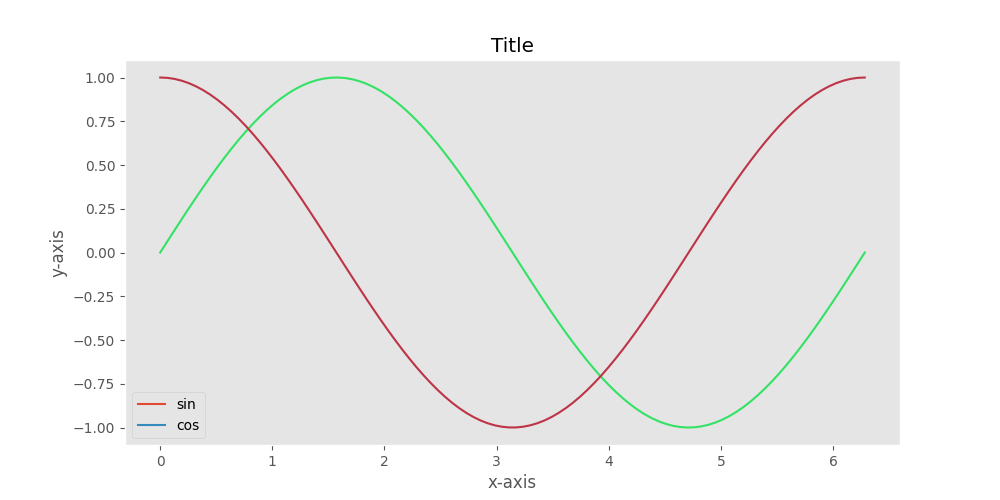
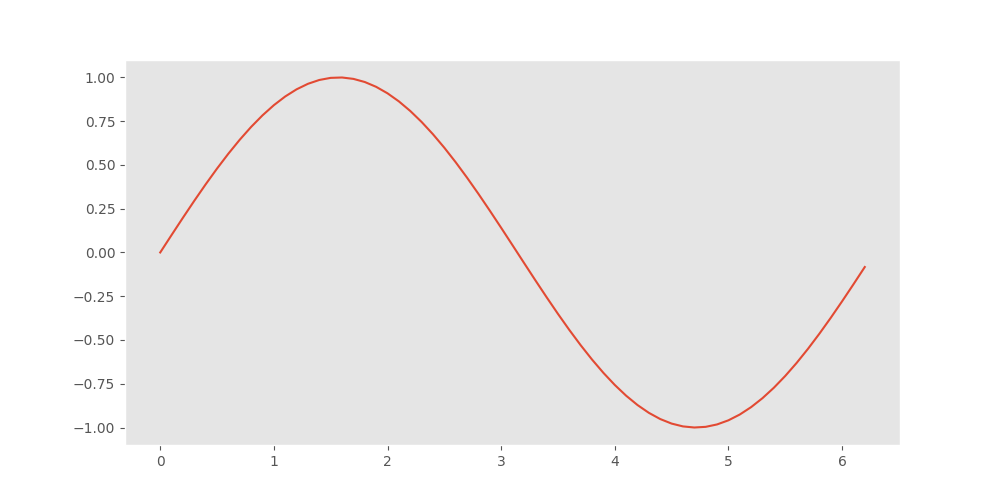
Ohne Video

diff --git a/figure_export.html b/figure_export.html
@@ -4,7 +4,7 @@
 
 </style>
 
-<div id="fig_el3477621869483733287335085152"></div>
+<div id="fig_el21922277846748416673735949"></div>
 <script>
 function mpld3_load_lib(url, callback){
   var s = document.createElement('script');
@@ -19,7 +19,7 @@ if(typeof(mpld3) !== "undefined" && mpld3._mpld3IsLoaded){
    // already loaded: just create the figure
    !function(mpld3){
        
-       mpld3.draw_figure("fig_el3477621869483733287335085152", {"width": 1000.0, "height": 500.0, "axes": [{"bbox": [0.125, 0.10999999999999999, 0.775, 0.77], "xlim": [-0.49500000000000005, 10.395], "ylim": [-1.099898100594381, 1.0995484460717855], "xdomain": [-0.49500000000000005, 10.395], "ydomain": [-1.099898100594381, 1.0995484460717855], "xscale": "linear", "yscale": "linear", "axes": [{"position": "bottom", "nticks": 8, "tickvalues": null, "tickformat_formatter": "", "tickformat": null, "scale": "linear", "fontsize": 10.0, "grid": {"gridOn": true, "color": "#FFFFFF", "dasharray": "none", "alpha": 1.0}, "visible": true}, {"position": "left", "nticks": 11, "tickvalues": null, "tickformat_formatter": "", "tickformat": null, "scale": "linear", "fontsize": 10.0, "grid": {"gridOn": true, "color": "#FFFFFF", "dasharray": "none", "alpha": 1.0}, "visible": true}], "axesbg": "#E5E5E5", "axesbgalpha": null, "zoomable": true, "id": "el347762186952697552", "lines": [{"data": "data01", "xindex": 0, "yindex": 1, "coordinates": "data", "id": "el347762186952614048", "color": "#334CE2", "linewidth": 1.5, "dasharray": "1.5,2.4749999999999996", "alpha": 1, "zorder": 2, "drawstyle": "default"}], "paths": [], "markers": [], "texts": [{"text": "x-axis", "position": [0.5, -0.07604617604617606], "coordinates": "axes", "h_anchor": "middle", "v_baseline": "hanging", "rotation": -0.0, "fontsize": 12.0, "color": "#555555", "alpha": 1, "zorder": 3, "id": "el347762186952498864"}, {"text": "y-axis", "position": [-0.07439068100358423, 0.5], "coordinates": "axes", "h_anchor": "middle", "v_baseline": "auto", "rotation": -90.0, "fontsize": 12.0, "color": "#555555", "alpha": 1, "zorder": 3, "id": "el347762186952386256"}, {"text": "Title", "position": [0.5, 1.0216450216450217], "coordinates": "axes", "h_anchor": "middle", "v_baseline": "auto", "rotation": -0.0, "fontsize": 14.399999999999999, "color": "#000000", "alpha": 1, "zorder": 3, "id": "el347762186948904512"}], "collections": [], "images": [], "sharex": [], "sharey": []}], "data": {"data01": [[0.0, 0.0], [0.1, 0.09983341664682815], [0.2, 0.19866933079506122], [0.30000000000000004, 0.2955202066613396], [0.4, 0.3894183423086505], [0.5, 0.479425538604203], [0.6000000000000001, 0.5646424733950355], [0.7000000000000001, 0.6442176872376911], [0.8, 0.7173560908995228], [0.9, 0.7833269096274834], [1.0, 0.8414709848078965], [1.1, 0.8912073600614354], [1.2000000000000002, 0.9320390859672264], [1.3, 0.963558185417193], [1.4000000000000001, 0.9854497299884603], [1.5, 0.9974949866040544], [1.6, 0.9995736030415051], [1.7000000000000002, 0.9916648104524686], [1.8, 0.9738476308781951], [1.9000000000000001, 0.9463000876874145], [2.0, 0.9092974268256817], [2.1, 0.8632093666488737], [2.2, 0.8084964038195901], [2.3000000000000003, 0.74570521217672], [2.4000000000000004, 0.6754631805511506], [2.5, 0.5984721441039564], [2.6, 0.5155013718214642], [2.7, 0.4273798802338298], [2.8000000000000003, 0.33498815015590466], [2.9000000000000004, 0.23924932921398198], [3.0, 0.1411200080598672], [3.1, 0.04158066243329049], [3.2, -0.058374143427580086], [3.3000000000000003, -0.15774569414324865], [3.4000000000000004, -0.25554110202683167], [3.5, -0.35078322768961984], [3.6, -0.44252044329485246], [3.7, -0.5298361409084934], [3.8000000000000003, -0.6118578909427193], [3.9000000000000004, -0.6877661591839741], [4.0, -0.7568024953079282], [4.1000000000000005, -0.8182771110644108], [4.2, -0.8715757724135882], [4.3, -0.9161659367494549], [4.4, -0.9516020738895161], [4.5, -0.977530117665097], [4.6000000000000005, -0.9936910036334645], [4.7, -0.9999232575641008], [4.800000000000001, -0.9961646088358406], [4.9, -0.9824526126243325], [5.0, -0.9589242746631385], [5.1000000000000005, -0.9258146823277321], [5.2, -0.8834546557201531], [5.300000000000001, -0.8322674422239008], [5.4, -0.7727644875559871], [5.5, -0.7055403255703919], [5.6000000000000005, -0.6312666378723208], [5.7, -0.5506855425976376], [5.800000000000001, -0.4646021794137566], [5.9, -0.373876664830236], [6.0, -0.27941549819892586], [6.1000000000000005, -0.18216250427209502], [6.2, -0.0830894028174964], [6.300000000000001, 0.0168139004843506], [6.4, 0.11654920485049364], [6.5, 0.21511998808781552], [6.6000000000000005, 0.3115413635133787], [6.7, 0.4048499206165983], [6.800000000000001, 0.49411335113860894], [6.9, 0.5784397643882001], [7.0, 0.6569865987187891], [7.1000000000000005, 0.7289690401258765], [7.2, 0.7936678638491531], [7.300000000000001, 0.8504366206285648], [7.4, 0.8987080958116269], [7.5, 0.9379999767747389], [7.6000000000000005, 0.9679196720314865], [7.7, 0.9881682338770004], [7.800000000000001, 0.998543345374605], [7.9, 0.998941341839772], [8.0, 0.9893582466233818], [8.1, 0.9698898108450863], [8.200000000000001, 0.9407305566797726], [8.3, 0.9021718337562933], [8.4, 0.8545989080882805], [8.5, 0.7984871126234903], [8.6, 0.7343970978741133], [8.700000000000001, 0.662969230082182], [8.8, 0.5849171928917617], [8.9, 0.5010208564578846], [9.0, 0.4121184852417566], [9.1, 0.3190983623493521], [9.200000000000001, 0.22288991410024592], [9.3, 0.1244544235070617], [9.4, 0.024775425453357765], [9.5, -0.0751511204618093], [9.600000000000001, -0.1743267812229814], [9.700000000000001, -0.2717606264109442], [9.8, -0.3664791292519284], [9.9, -0.45753589377532133]]}, "id": "el347762186948373328", "plugins": [{"type": "reset"}, {"type": "zoom", "button": true, "enabled": false}, {"type": "boxzoom", "button": true, "enabled": false}]});
+       mpld3.draw_figure("fig_el21922277846748416673735949", {"width": 1000.0, "height": 500.0, "axes": [{"bbox": [0.125, 0.10999999999999999, 0.775, 0.77], "xlim": [-0.31000000000000005, 6.51], "ylim": [-1.099898100594381, 1.0995484460717855], "xdomain": [-0.31000000000000005, 6.51], "ydomain": [-1.099898100594381, 1.0995484460717855], "xscale": "linear", "yscale": "linear", "axes": [{"position": "bottom", "nticks": 9, "tickvalues": null, "tickformat_formatter": "", "tickformat": null, "scale": "linear", "fontsize": 10.0, "grid": {"gridOn": false}, "visible": true}, {"position": "left", "nticks": 11, "tickvalues": null, "tickformat_formatter": "", "tickformat": null, "scale": "linear", "fontsize": 10.0, "grid": {"gridOn": false}, "visible": true}], "axesbg": "#E5E5E5", "axesbgalpha": null, "zoomable": true, "id": "el21922277435743968", "lines": [{"data": "data01", "xindex": 0, "yindex": 1, "coordinates": "data", "id": "el21922277851234256", "color": "#E24A33", "linewidth": 1.5, "dasharray": "none", "alpha": 1, "zorder": 2, "drawstyle": "default"}], "paths": [], "markers": [], "texts": [], "collections": [], "images": [], "sharex": [], "sharey": []}], "data": {"data01": [[0.0, 0.0], [0.1, 0.09983341664682815], [0.2, 0.19866933079506122], [0.30000000000000004, 0.2955202066613396], [0.4, 0.3894183423086505], [0.5, 0.479425538604203], [0.6000000000000001, 0.5646424733950355], [0.7000000000000001, 0.6442176872376911], [0.8, 0.7173560908995228], [0.9, 0.7833269096274834], [1.0, 0.8414709848078965], [1.1, 0.8912073600614354], [1.2000000000000002, 0.9320390859672264], [1.3, 0.963558185417193], [1.4000000000000001, 0.9854497299884603], [1.5, 0.9974949866040544], [1.6, 0.9995736030415051], [1.7000000000000002, 0.9916648104524686], [1.8, 0.9738476308781951], [1.9000000000000001, 0.9463000876874145], [2.0, 0.9092974268256817], [2.1, 0.8632093666488737], [2.2, 0.8084964038195901], [2.3000000000000003, 0.74570521217672], [2.4000000000000004, 0.6754631805511506], [2.5, 0.5984721441039564], [2.6, 0.5155013718214642], [2.7, 0.4273798802338298], [2.8000000000000003, 0.33498815015590466], [2.9000000000000004, 0.23924932921398198], [3.0, 0.1411200080598672], [3.1, 0.04158066243329049], [3.2, -0.058374143427580086], [3.3000000000000003, -0.15774569414324865], [3.4000000000000004, -0.25554110202683167], [3.5, -0.35078322768961984], [3.6, -0.44252044329485246], [3.7, -0.5298361409084934], [3.8000000000000003, -0.6118578909427193], [3.9000000000000004, -0.6877661591839741], [4.0, -0.7568024953079282], [4.1000000000000005, -0.8182771110644108], [4.2, -0.8715757724135882], [4.3, -0.9161659367494549], [4.4, -0.9516020738895161], [4.5, -0.977530117665097], [4.6000000000000005, -0.9936910036334645], [4.7, -0.9999232575641008], [4.800000000000001, -0.9961646088358406], [4.9, -0.9824526126243325], [5.0, -0.9589242746631385], [5.1000000000000005, -0.9258146823277321], [5.2, -0.8834546557201531], [5.300000000000001, -0.8322674422239008], [5.4, -0.7727644875559871], [5.5, -0.7055403255703919], [5.6000000000000005, -0.6312666378723208], [5.7, -0.5506855425976376], [5.800000000000001, -0.4646021794137566], [5.9, -0.373876664830236], [6.0, -0.27941549819892586], [6.1000000000000005, -0.18216250427209502], [6.2, -0.0830894028174964]]}, "id": "el21922277846748416", "plugins": [{"type": "reset"}, {"type": "zoom", "button": true, "enabled": false}, {"type": "boxzoom", "button": true, "enabled": false}]});
    }(mpld3);
 }else if(typeof define === "function" && define.amd){
    // require.js is available: use it to load d3/mpld3
@@ -28,7 +28,7 @@ if(typeof(mpld3) !== "undefined" && mpld3._mpld3IsLoaded){
       window.d3 = d3;
       mpld3_load_lib("https://mpld3.github.io/js/mpld3.v0.5.7.js", function(){
          
-         mpld3.draw_figure("fig_el3477621869483733287335085152", {"width": 1000.0, "height": 500.0, "axes": [{"bbox": [0.125, 0.10999999999999999, 0.775, 0.77], "xlim": [-0.49500000000000005, 10.395], "ylim": [-1.099898100594381, 1.0995484460717855], "xdomain": [-0.49500000000000005, 10.395], "ydomain": [-1.099898100594381, 1.0995484460717855], "xscale": "linear", "yscale": "linear", "axes": [{"position": "bottom", "nticks": 8, "tickvalues": null, "tickformat_formatter": "", "tickformat": null, "scale": "linear", "fontsize": 10.0, "grid": {"gridOn": true, "color": "#FFFFFF", "dasharray": "none", "alpha": 1.0}, "visible": true}, {"position": "left", "nticks": 11, "tickvalues": null, "tickformat_formatter": "", "tickformat": null, "scale": "linear", "fontsize": 10.0, "grid": {"gridOn": true, "color": "#FFFFFF", "dasharray": "none", "alpha": 1.0}, "visible": true}], "axesbg": "#E5E5E5", "axesbgalpha": null, "zoomable": true, "id": "el347762186952697552", "lines": [{"data": "data01", "xindex": 0, "yindex": 1, "coordinates": "data", "id": "el347762186952614048", "color": "#334CE2", "linewidth": 1.5, "dasharray": "1.5,2.4749999999999996", "alpha": 1, "zorder": 2, "drawstyle": "default"}], "paths": [], "markers": [], "texts": [{"text": "x-axis", "position": [0.5, -0.07604617604617606], "coordinates": "axes", "h_anchor": "middle", "v_baseline": "hanging", "rotation": -0.0, "fontsize": 12.0, "color": "#555555", "alpha": 1, "zorder": 3, "id": "el347762186952498864"}, {"text": "y-axis", "position": [-0.07439068100358423, 0.5], "coordinates": "axes", "h_anchor": "middle", "v_baseline": "auto", "rotation": -90.0, "fontsize": 12.0, "color": "#555555", "alpha": 1, "zorder": 3, "id": "el347762186952386256"}, {"text": "Title", "position": [0.5, 1.0216450216450217], "coordinates": "axes", "h_anchor": "middle", "v_baseline": "auto", "rotation": -0.0, "fontsize": 14.399999999999999, "color": "#000000", "alpha": 1, "zorder": 3, "id": "el347762186948904512"}], "collections": [], "images": [], "sharex": [], "sharey": []}], "data": {"data01": [[0.0, 0.0], [0.1, 0.09983341664682815], [0.2, 0.19866933079506122], [0.30000000000000004, 0.2955202066613396], [0.4, 0.3894183423086505], [0.5, 0.479425538604203], [0.6000000000000001, 0.5646424733950355], [0.7000000000000001, 0.6442176872376911], [0.8, 0.7173560908995228], [0.9, 0.7833269096274834], [1.0, 0.8414709848078965], [1.1, 0.8912073600614354], [1.2000000000000002, 0.9320390859672264], [1.3, 0.963558185417193], [1.4000000000000001, 0.9854497299884603], [1.5, 0.9974949866040544], [1.6, 0.9995736030415051], [1.7000000000000002, 0.9916648104524686], [1.8, 0.9738476308781951], [1.9000000000000001, 0.9463000876874145], [2.0, 0.9092974268256817], [2.1, 0.8632093666488737], [2.2, 0.8084964038195901], [2.3000000000000003, 0.74570521217672], [2.4000000000000004, 0.6754631805511506], [2.5, 0.5984721441039564], [2.6, 0.5155013718214642], [2.7, 0.4273798802338298], [2.8000000000000003, 0.33498815015590466], [2.9000000000000004, 0.23924932921398198], [3.0, 0.1411200080598672], [3.1, 0.04158066243329049], [3.2, -0.058374143427580086], [3.3000000000000003, -0.15774569414324865], [3.4000000000000004, -0.25554110202683167], [3.5, -0.35078322768961984], [3.6, -0.44252044329485246], [3.7, -0.5298361409084934], [3.8000000000000003, -0.6118578909427193], [3.9000000000000004, -0.6877661591839741], [4.0, -0.7568024953079282], [4.1000000000000005, -0.8182771110644108], [4.2, -0.8715757724135882], [4.3, -0.9161659367494549], [4.4, -0.9516020738895161], [4.5, -0.977530117665097], [4.6000000000000005, -0.9936910036334645], [4.7, -0.9999232575641008], [4.800000000000001, -0.9961646088358406], [4.9, -0.9824526126243325], [5.0, -0.9589242746631385], [5.1000000000000005, -0.9258146823277321], [5.2, -0.8834546557201531], [5.300000000000001, -0.8322674422239008], [5.4, -0.7727644875559871], [5.5, -0.7055403255703919], [5.6000000000000005, -0.6312666378723208], [5.7, -0.5506855425976376], [5.800000000000001, -0.4646021794137566], [5.9, -0.373876664830236], [6.0, -0.27941549819892586], [6.1000000000000005, -0.18216250427209502], [6.2, -0.0830894028174964], [6.300000000000001, 0.0168139004843506], [6.4, 0.11654920485049364], [6.5, 0.21511998808781552], [6.6000000000000005, 0.3115413635133787], [6.7, 0.4048499206165983], [6.800000000000001, 0.49411335113860894], [6.9, 0.5784397643882001], [7.0, 0.6569865987187891], [7.1000000000000005, 0.7289690401258765], [7.2, 0.7936678638491531], [7.300000000000001, 0.8504366206285648], [7.4, 0.8987080958116269], [7.5, 0.9379999767747389], [7.6000000000000005, 0.9679196720314865], [7.7, 0.9881682338770004], [7.800000000000001, 0.998543345374605], [7.9, 0.998941341839772], [8.0, 0.9893582466233818], [8.1, 0.9698898108450863], [8.200000000000001, 0.9407305566797726], [8.3, 0.9021718337562933], [8.4, 0.8545989080882805], [8.5, 0.7984871126234903], [8.6, 0.7343970978741133], [8.700000000000001, 0.662969230082182], [8.8, 0.5849171928917617], [8.9, 0.5010208564578846], [9.0, 0.4121184852417566], [9.1, 0.3190983623493521], [9.200000000000001, 0.22288991410024592], [9.3, 0.1244544235070617], [9.4, 0.024775425453357765], [9.5, -0.0751511204618093], [9.600000000000001, -0.1743267812229814], [9.700000000000001, -0.2717606264109442], [9.8, -0.3664791292519284], [9.9, -0.45753589377532133]]}, "id": "el347762186948373328", "plugins": [{"type": "reset"}, {"type": "zoom", "button": true, "enabled": false}, {"type": "boxzoom", "button": true, "enabled": false}]});
+         mpld3.draw_figure("fig_el21922277846748416673735949", {"width": 1000.0, "height": 500.0, "axes": [{"bbox": [0.125, 0.10999999999999999, 0.775, 0.77], "xlim": [-0.31000000000000005, 6.51], "ylim": [-1.099898100594381, 1.0995484460717855], "xdomain": [-0.31000000000000005, 6.51], "ydomain": [-1.099898100594381, 1.0995484460717855], "xscale": "linear", "yscale": "linear", "axes": [{"position": "bottom", "nticks": 9, "tickvalues": null, "tickformat_formatter": "", "tickformat": null, "scale": "linear", "fontsize": 10.0, "grid": {"gridOn": false}, "visible": true}, {"position": "left", "nticks": 11, "tickvalues": null, "tickformat_formatter": "", "tickformat": null, "scale": "linear", "fontsize": 10.0, "grid": {"gridOn": false}, "visible": true}], "axesbg": "#E5E5E5", "axesbgalpha": null, "zoomable": true, "id": "el21922277435743968", "lines": [{"data": "data01", "xindex": 0, "yindex": 1, "coordinates": "data", "id": "el21922277851234256", "color": "#E24A33", "linewidth": 1.5, "dasharray": "none", "alpha": 1, "zorder": 2, "drawstyle": "default"}], "paths": [], "markers": [], "texts": [], "collections": [], "images": [], "sharex": [], "sharey": []}], "data": {"data01": [[0.0, 0.0], [0.1, 0.09983341664682815], [0.2, 0.19866933079506122], [0.30000000000000004, 0.2955202066613396], [0.4, 0.3894183423086505], [0.5, 0.479425538604203], [0.6000000000000001, 0.5646424733950355], [0.7000000000000001, 0.6442176872376911], [0.8, 0.7173560908995228], [0.9, 0.7833269096274834], [1.0, 0.8414709848078965], [1.1, 0.8912073600614354], [1.2000000000000002, 0.9320390859672264], [1.3, 0.963558185417193], [1.4000000000000001, 0.9854497299884603], [1.5, 0.9974949866040544], [1.6, 0.9995736030415051], [1.7000000000000002, 0.9916648104524686], [1.8, 0.9738476308781951], [1.9000000000000001, 0.9463000876874145], [2.0, 0.9092974268256817], [2.1, 0.8632093666488737], [2.2, 0.8084964038195901], [2.3000000000000003, 0.74570521217672], [2.4000000000000004, 0.6754631805511506], [2.5, 0.5984721441039564], [2.6, 0.5155013718214642], [2.7, 0.4273798802338298], [2.8000000000000003, 0.33498815015590466], [2.9000000000000004, 0.23924932921398198], [3.0, 0.1411200080598672], [3.1, 0.04158066243329049], [3.2, -0.058374143427580086], [3.3000000000000003, -0.15774569414324865], [3.4000000000000004, -0.25554110202683167], [3.5, -0.35078322768961984], [3.6, -0.44252044329485246], [3.7, -0.5298361409084934], [3.8000000000000003, -0.6118578909427193], [3.9000000000000004, -0.6877661591839741], [4.0, -0.7568024953079282], [4.1000000000000005, -0.8182771110644108], [4.2, -0.8715757724135882], [4.3, -0.9161659367494549], [4.4, -0.9516020738895161], [4.5, -0.977530117665097], [4.6000000000000005, -0.9936910036334645], [4.7, -0.9999232575641008], [4.800000000000001, -0.9961646088358406], [4.9, -0.9824526126243325], [5.0, -0.9589242746631385], [5.1000000000000005, -0.9258146823277321], [5.2, -0.8834546557201531], [5.300000000000001, -0.8322674422239008], [5.4, -0.7727644875559871], [5.5, -0.7055403255703919], [5.6000000000000005, -0.6312666378723208], [5.7, -0.5506855425976376], [5.800000000000001, -0.4646021794137566], [5.9, -0.373876664830236], [6.0, -0.27941549819892586], [6.1000000000000005, -0.18216250427209502], [6.2, -0.0830894028174964]]}, "id": "el21922277846748416", "plugins": [{"type": "reset"}, {"type": "zoom", "button": true, "enabled": false}, {"type": "boxzoom", "button": true, "enabled": false}]});
       });
     });
 }else{
@@ -36,7 +36,7 @@ if(typeof(mpld3) !== "undefined" && mpld3._mpld3IsLoaded){
     mpld3_load_lib("https://d3js.org/d3.v5.js", function(){
          mpld3_load_lib("https://mpld3.github.io/js/mpld3.v0.5.7.js", function(){
                  
-                 mpld3.draw_figure("fig_el3477621869483733287335085152", {"width": 1000.0, "height": 500.0, "axes": [{"bbox": [0.125, 0.10999999999999999, 0.775, 0.77], "xlim": [-0.49500000000000005, 10.395], "ylim": [-1.099898100594381, 1.0995484460717855], "xdomain": [-0.49500000000000005, 10.395], "ydomain": [-1.099898100594381, 1.0995484460717855], "xscale": "linear", "yscale": "linear", "axes": [{"position": "bottom", "nticks": 8, "tickvalues": null, "tickformat_formatter": "", "tickformat": null, "scale": "linear", "fontsize": 10.0, "grid": {"gridOn": true, "color": "#FFFFFF", "dasharray": "none", "alpha": 1.0}, "visible": true}, {"position": "left", "nticks": 11, "tickvalues": null, "tickformat_formatter": "", "tickformat": null, "scale": "linear", "fontsize": 10.0, "grid": {"gridOn": true, "color": "#FFFFFF", "dasharray": "none", "alpha": 1.0}, "visible": true}], "axesbg": "#E5E5E5", "axesbgalpha": null, "zoomable": true, "id": "el347762186952697552", "lines": [{"data": "data01", "xindex": 0, "yindex": 1, "coordinates": "data", "id": "el347762186952614048", "color": "#334CE2", "linewidth": 1.5, "dasharray": "1.5,2.4749999999999996", "alpha": 1, "zorder": 2, "drawstyle": "default"}], "paths": [], "markers": [], "texts": [{"text": "x-axis", "position": [0.5, -0.07604617604617606], "coordinates": "axes", "h_anchor": "middle", "v_baseline": "hanging", "rotation": -0.0, "fontsize": 12.0, "color": "#555555", "alpha": 1, "zorder": 3, "id": "el347762186952498864"}, {"text": "y-axis", "position": [-0.07439068100358423, 0.5], "coordinates": "axes", "h_anchor": "middle", "v_baseline": "auto", "rotation": -90.0, "fontsize": 12.0, "color": "#555555", "alpha": 1, "zorder": 3, "id": "el347762186952386256"}, {"text": "Title", "position": [0.5, 1.0216450216450217], "coordinates": "axes", "h_anchor": "middle", "v_baseline": "auto", "rotation": -0.0, "fontsize": 14.399999999999999, "color": "#000000", "alpha": 1, "zorder": 3, "id": "el347762186948904512"}], "collections": [], "images": [], "sharex": [], "sharey": []}], "data": {"data01": [[0.0, 0.0], [0.1, 0.09983341664682815], [0.2, 0.19866933079506122], [0.30000000000000004, 0.2955202066613396], [0.4, 0.3894183423086505], [0.5, 0.479425538604203], [0.6000000000000001, 0.5646424733950355], [0.7000000000000001, 0.6442176872376911], [0.8, 0.7173560908995228], [0.9, 0.7833269096274834], [1.0, 0.8414709848078965], [1.1, 0.8912073600614354], [1.2000000000000002, 0.9320390859672264], [1.3, 0.963558185417193], [1.4000000000000001, 0.9854497299884603], [1.5, 0.9974949866040544], [1.6, 0.9995736030415051], [1.7000000000000002, 0.9916648104524686], [1.8, 0.9738476308781951], [1.9000000000000001, 0.9463000876874145], [2.0, 0.9092974268256817], [2.1, 0.8632093666488737], [2.2, 0.8084964038195901], [2.3000000000000003, 0.74570521217672], [2.4000000000000004, 0.6754631805511506], [2.5, 0.5984721441039564], [2.6, 0.5155013718214642], [2.7, 0.4273798802338298], [2.8000000000000003, 0.33498815015590466], [2.9000000000000004, 0.23924932921398198], [3.0, 0.1411200080598672], [3.1, 0.04158066243329049], [3.2, -0.058374143427580086], [3.3000000000000003, -0.15774569414324865], [3.4000000000000004, -0.25554110202683167], [3.5, -0.35078322768961984], [3.6, -0.44252044329485246], [3.7, -0.5298361409084934], [3.8000000000000003, -0.6118578909427193], [3.9000000000000004, -0.6877661591839741], [4.0, -0.7568024953079282], [4.1000000000000005, -0.8182771110644108], [4.2, -0.8715757724135882], [4.3, -0.9161659367494549], [4.4, -0.9516020738895161], [4.5, -0.977530117665097], [4.6000000000000005, -0.9936910036334645], [4.7, -0.9999232575641008], [4.800000000000001, -0.9961646088358406], [4.9, -0.9824526126243325], [5.0, -0.9589242746631385], [5.1000000000000005, -0.9258146823277321], [5.2, -0.8834546557201531], [5.300000000000001, -0.8322674422239008], [5.4, -0.7727644875559871], [5.5, -0.7055403255703919], [5.6000000000000005, -0.6312666378723208], [5.7, -0.5506855425976376], [5.800000000000001, -0.4646021794137566], [5.9, -0.373876664830236], [6.0, -0.27941549819892586], [6.1000000000000005, -0.18216250427209502], [6.2, -0.0830894028174964], [6.300000000000001, 0.0168139004843506], [6.4, 0.11654920485049364], [6.5, 0.21511998808781552], [6.6000000000000005, 0.3115413635133787], [6.7, 0.4048499206165983], [6.800000000000001, 0.49411335113860894], [6.9, 0.5784397643882001], [7.0, 0.6569865987187891], [7.1000000000000005, 0.7289690401258765], [7.2, 0.7936678638491531], [7.300000000000001, 0.8504366206285648], [7.4, 0.8987080958116269], [7.5, 0.9379999767747389], [7.6000000000000005, 0.9679196720314865], [7.7, 0.9881682338770004], [7.800000000000001, 0.998543345374605], [7.9, 0.998941341839772], [8.0, 0.9893582466233818], [8.1, 0.9698898108450863], [8.200000000000001, 0.9407305566797726], [8.3, 0.9021718337562933], [8.4, 0.8545989080882805], [8.5, 0.7984871126234903], [8.6, 0.7343970978741133], [8.700000000000001, 0.662969230082182], [8.8, 0.5849171928917617], [8.9, 0.5010208564578846], [9.0, 0.4121184852417566], [9.1, 0.3190983623493521], [9.200000000000001, 0.22288991410024592], [9.3, 0.1244544235070617], [9.4, 0.024775425453357765], [9.5, -0.0751511204618093], [9.600000000000001, -0.1743267812229814], [9.700000000000001, -0.2717606264109442], [9.8, -0.3664791292519284], [9.9, -0.45753589377532133]]}, "id": "el347762186948373328", "plugins": [{"type": "reset"}, {"type": "zoom", "button": true, "enabled": false}, {"type": "boxzoom", "button": true, "enabled": false}]});
+                 mpld3.draw_figure("fig_el21922277846748416673735949", {"width": 1000.0, "height": 500.0, "axes": [{"bbox": [0.125, 0.10999999999999999, 0.775, 0.77], "xlim": [-0.31000000000000005, 6.51], "ylim": [-1.099898100594381, 1.0995484460717855], "xdomain": [-0.31000000000000005, 6.51], "ydomain": [-1.099898100594381, 1.0995484460717855], "xscale": "linear", "yscale": "linear", "axes": [{"position": "bottom", "nticks": 9, "tickvalues": null, "tickformat_formatter": "", "tickformat": null, "scale": "linear", "fontsize": 10.0, "grid": {"gridOn": false}, "visible": true}, {"position": "left", "nticks": 11, "tickvalues": null, "tickformat_formatter": "", "tickformat": null, "scale": "linear", "fontsize": 10.0, "grid": {"gridOn": false}, "visible": true}], "axesbg": "#E5E5E5", "axesbgalpha": null, "zoomable": true, "id": "el21922277435743968", "lines": [{"data": "data01", "xindex": 0, "yindex": 1, "coordinates": "data", "id": "el21922277851234256", "color": "#E24A33", "linewidth": 1.5, "dasharray": "none", "alpha": 1, "zorder": 2, "drawstyle": "default"}], "paths": [], "markers": [], "texts": [], "collections": [], "images": [], "sharex": [], "sharey": []}], "data": {"data01": [[0.0, 0.0], [0.1, 0.09983341664682815], [0.2, 0.19866933079506122], [0.30000000000000004, 0.2955202066613396], [0.4, 0.3894183423086505], [0.5, 0.479425538604203], [0.6000000000000001, 0.5646424733950355], [0.7000000000000001, 0.6442176872376911], [0.8, 0.7173560908995228], [0.9, 0.7833269096274834], [1.0, 0.8414709848078965], [1.1, 0.8912073600614354], [1.2000000000000002, 0.9320390859672264], [1.3, 0.963558185417193], [1.4000000000000001, 0.9854497299884603], [1.5, 0.9974949866040544], [1.6, 0.9995736030415051], [1.7000000000000002, 0.9916648104524686], [1.8, 0.9738476308781951], [1.9000000000000001, 0.9463000876874145], [2.0, 0.9092974268256817], [2.1, 0.8632093666488737], [2.2, 0.8084964038195901], [2.3000000000000003, 0.74570521217672], [2.4000000000000004, 0.6754631805511506], [2.5, 0.5984721441039564], [2.6, 0.5155013718214642], [2.7, 0.4273798802338298], [2.8000000000000003, 0.33498815015590466], [2.9000000000000004, 0.23924932921398198], [3.0, 0.1411200080598672], [3.1, 0.04158066243329049], [3.2, -0.058374143427580086], [3.3000000000000003, -0.15774569414324865], [3.4000000000000004, -0.25554110202683167], [3.5, -0.35078322768961984], [3.6, -0.44252044329485246], [3.7, -0.5298361409084934], [3.8000000000000003, -0.6118578909427193], [3.9000000000000004, -0.6877661591839741], [4.0, -0.7568024953079282], [4.1000000000000005, -0.8182771110644108], [4.2, -0.8715757724135882], [4.3, -0.9161659367494549], [4.4, -0.9516020738895161], [4.5, -0.977530117665097], [4.6000000000000005, -0.9936910036334645], [4.7, -0.9999232575641008], [4.800000000000001, -0.9961646088358406], [4.9, -0.9824526126243325], [5.0, -0.9589242746631385], [5.1000000000000005, -0.9258146823277321], [5.2, -0.8834546557201531], [5.300000000000001, -0.8322674422239008], [5.4, -0.7727644875559871], [5.5, -0.7055403255703919], [5.6000000000000005, -0.6312666378723208], [5.7, -0.5506855425976376], [5.800000000000001, -0.4646021794137566], [5.9, -0.373876664830236], [6.0, -0.27941549819892586], [6.1000000000000005, -0.18216250427209502], [6.2, -0.0830894028174964]]}, "id": "el21922277846748416", "plugins": [{"type": "reset"}, {"type": "zoom", "button": true, "enabled": false}, {"type": "boxzoom", "button": true, "enabled": false}]});
             })
          });
 }

diff --git a/main.py b/main.py
@@ -356,11 +356,11 @@ def create_figure():
 with col1:
     #st.write(st.session_state)
     st.header('Create Charts with Commands in Natural Language')
-    demo_video = st.expander(label='Tutorial Video')
-    with demo_video:
-        video_file = open('NLP2Chart.mp4', 'rb')
-        video_bytes = video_file.read()
-        st.video(video_bytes)
+    #demo_video = st.expander(label='Tutorial Video')
+    #with demo_video:
+        #video_file = open('NLP2Chart.mp4', 'rb')
+        #video_bytes = video_file.read()
+        #st.video(video_bytes)
     st.text_area("Advise the system", key="comand_input", on_change=getGPT3,
         help="Examples: \n Plot a sinus function from -4 pi to 4 pi; \n Make an array of 400 random numbers and plot a horizontal histogram; \n plot sum of total_cases grouped by location as bar chart (COVID19 Data)")
     fig = create_figure()
@@ -372,12 +372,11 @@ set_widgets()
 
 st.sidebar.markdown('### Export ###')
 
-if st.sidebar.button('Save PNG'):
-     with open('fig'+ st.session_state.id +'.pickle', 'rb') as f:
-         fig = pickle.load(f)
-     fig.savefig('figure_export.png', dpi=fig.dpi)
-
-if st.sidebar.button('Save HTML'):
-     with open('fig'+ st.session_state.id +'.pickle', 'rb') as f:
-         fig = pickle.load(f)
-     mpld3.save_html(fig,'figure_export.html')
+with open('fig'+ st.session_state.id +'.pickle', 'rb') as f:
+    fig = pickle.load(f)
+fig.savefig('figure_export.png', dpi=fig.dpi)
+mpld3.save_html(fig,'figure_export.html')
+with open('figure_export.png', 'rb') as f:
+   st.sidebar.download_button('Download PNG', f, file_name='figure_export.png')
+with open('figure_export.html', 'rb') as f:
+   st.sidebar.download_button('Download HTML', f, file_name='figure_export.html')
